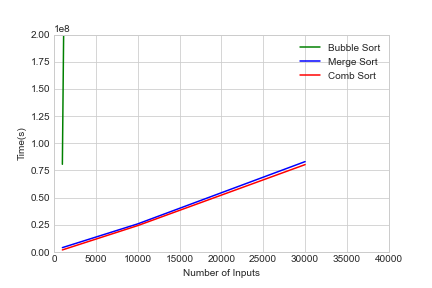
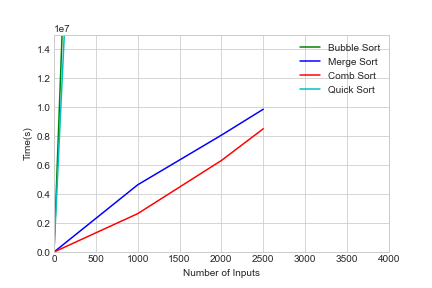
updated list sizes and updated graph

diff --git a/main.py b/main.py
@@ -12,8 +12,8 @@ from matplotlib import pyplot as plt
 from random import randint as ran
 
 unsorted1 = [0]*1000
-unsorted2 = [0] * 10000
-unsorted3 = [0] * 30000
+unsorted2 = [0] * 2000
+unsorted3 = [0] * 2500
 
 
 def generate(lists):
@@ -30,11 +30,11 @@ def main(unsorted1, unsorted2, unsorted3):
     unsorted2 = generate(unsorted2)
     unsorted3 = generate(unsorted3)
     # dictionary to hold number of inputs and the time it took
-    bubbleTime = []
-    mergeTime = []
-    combTime = []
-    quickTime = []
-    sizes = [1000, 10000, 30000]
+    bubbleTime = [0]
+    mergeTime = [0]
+    combTime = [0]
+    quickTime = [0]
+    sizes = [0,1000, 2000, 2500]
    # print("Unsorted: "+ str(unsorted))
 
     # Test Bubble Sort
@@ -48,12 +48,12 @@ def main(unsorted1, unsorted2, unsorted3):
     bubbleSort(unsorted2)
     time_end = time.perf_counter_ns()
     bubbleTime.append(time_end-time_start)
-    print("Sorted: 10000, Time(in nanoseconds): " + str(time_end-time_start))
+    print("Sorted: 2000, Time(in nanoseconds): " + str(time_end-time_start))
     time_start = time.perf_counter_ns()
     bubbleSort(unsorted3)
     time_end = time.perf_counter_ns()
     bubbleTime.append(time_end-time_start)
-    print("Sorted: 30000, Time(in nanoseconds): " + str(time_end-time_start))
+    print("Sorted: 2500, Time(in nanoseconds): " + str(time_end-time_start))
 
     # Test Merge Sort
     print("\nMerge Sort:")
@@ -66,12 +66,12 @@ def main(unsorted1, unsorted2, unsorted3):
     merge_sort(unsorted2)
     time_end = time.perf_counter_ns()
     mergeTime.append(time_end-time_start)
-    print("Sorted: 10000, Time(in nanoseconds): " + str(time_end-time_start))
+    print("Sorted: 2000, Time(in nanoseconds): " + str(time_end-time_start))
     time_start = time.perf_counter_ns()
     merge_sort(unsorted3)
     time_end = time.perf_counter_ns()
     mergeTime.append(time_end-time_start)
-    print("Sorted: 30000, Time(in nanoseconds): " + str(time_end-time_start))
+    print("Sorted: 2500, Time(in nanoseconds): " + str(time_end-time_start))
 
     # Test Comb Sort
     print("\nComb Sort:")
@@ -84,12 +84,12 @@ def main(unsorted1, unsorted2, unsorted3):
     combSort(unsorted2)
     time_end = time.perf_counter_ns()
     combTime.append(time_end-time_start)
-    print("Sorted: 10000, Time(in nanoseconds): " + str(time_end-time_start))
+    print("Sorted: 2000, Time(in nanoseconds): " + str(time_end-time_start))
     time_start = time.perf_counter_ns()
     combSort(unsorted3)
     time_end = time.perf_counter_ns()
     combTime.append(time_end-time_start)
-    print("Sorted: 30000, Time(in nanoseconds): " + str(time_end-time_start))
+    print("Sorted: 2500, Time(in nanoseconds): " + str(time_end-time_start))
     
     # Test Quick Sort
     n = len(unsorted1)
@@ -104,13 +104,13 @@ def main(unsorted1, unsorted2, unsorted3):
     quickSort(unsorted2, 0, n-1)
     time_end = time.perf_counter_ns()
     quickTime.append(time_end-time_start)
-    print("Sorted: 10000, Time(in nanoseconds): " + str(time_end-time_start))
+    print("Sorted: 2000, Time(in nanoseconds): " + str(time_end-time_start))
     n = len(unsorted3)
     time_start = time.perf_counter_ns()
     quickSort(unsorted3,0,n-1)
     time_end = time.perf_counter_ns()
     quickTime.append(time_end-time_start)
-    print("Sorted: 100000, Time(in nanoseconds): " + str(time_end-time_start))
+    print("Sorted: 2500, Time(in nanoseconds): " + str(time_end-time_start))
 
     # graph,messing around with graphing
     plt.style.use('seaborn-whitegrid')
@@ -118,7 +118,7 @@ def main(unsorted1, unsorted2, unsorted3):
     ax = plt.axes()
     plt.xlabel("Number of Inputs")
     plt.ylabel("Time(s)")
-    ax.set(xlim=(0, 40000), ylim=(0, 200000000))
+    ax.set(xlim=(0, 4000), ylim=(0, 15000000))
     ax.plot(sizes, bubbleTime, color='g', label='Bubble Sort')
     ax.plot(sizes, mergeTime, color='b', label='Merge Sort')
     ax.plot(sizes, combTime, color='r', label='Comb Sort')
